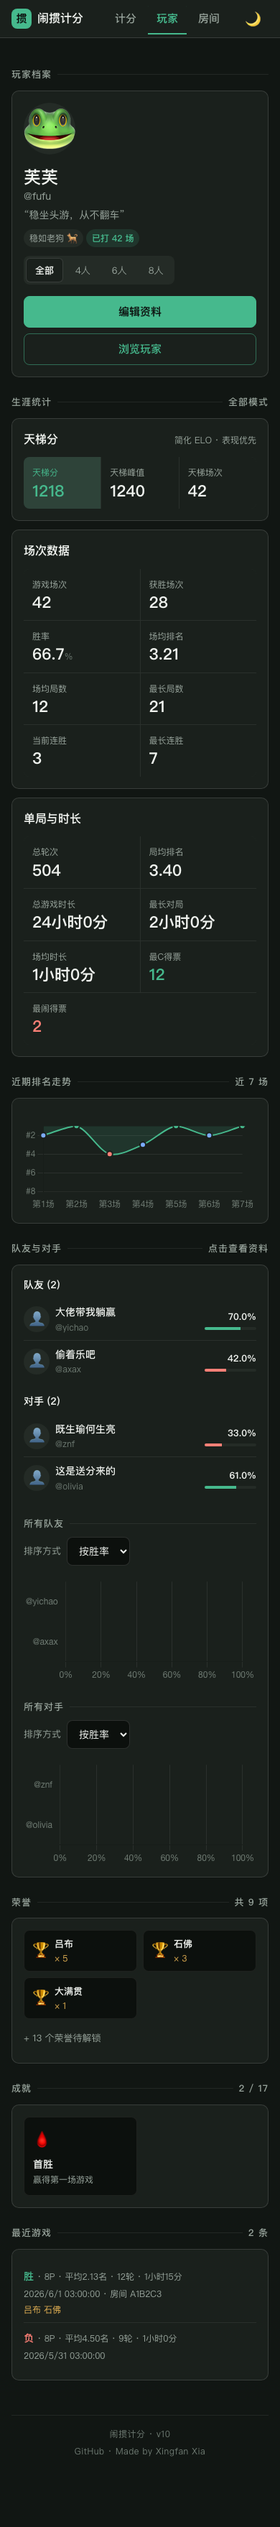
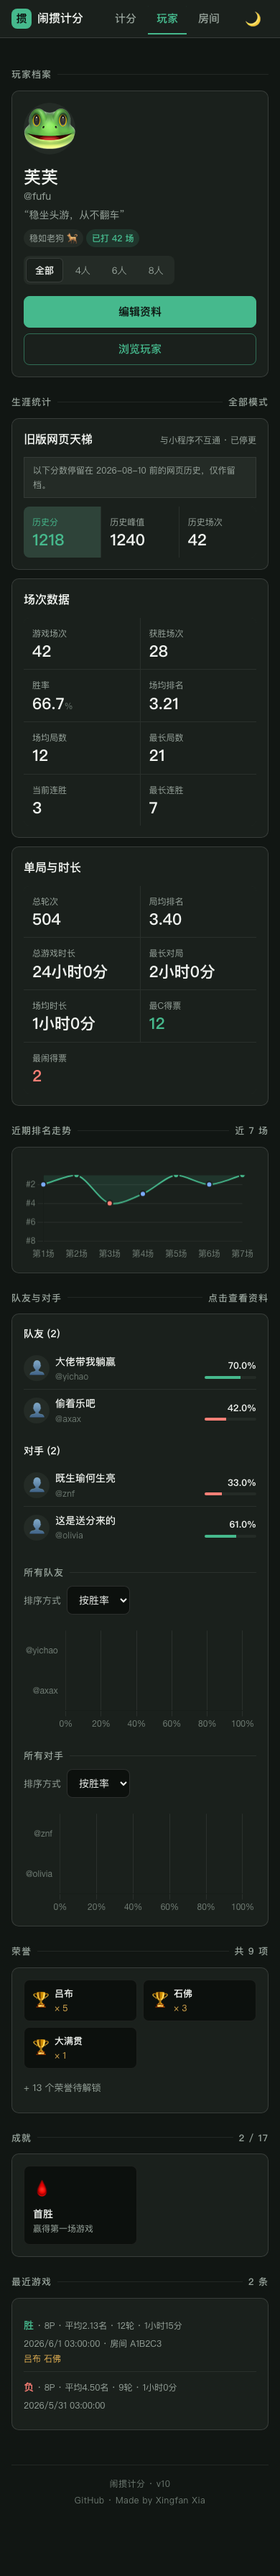
feat: freeze legacy web ladder

diff --git a/api/players/[handle].js b/api/players/[handle].js
@@ -16,10 +16,7 @@ import {
 } from '../../shared/voteSessionKey.js';
 import { getHistoryEntries, resolveGameStatus } from '../../shared/gameStatus.js';
 import {
-  LADDER_BASE,
-  computeLadderDeltas,
-  seedLadderRating,
-  applyLadderDelta
+  LADDER_BASE
 } from '../../shared/ladderLogic.js';
 import { publicVoteStoreForRoom } from '../rooms/_votes.js';
 import {
@@ -522,116 +519,6 @@ function normalizeLadderShape(ladder) {
     sessions: normalizeNonNegativeInteger(cur.sessions, 0),
     peak: Math.max(rating, normalizeNonNegativeNumber(cur.peak, rating))
   };
-}
-
-function roomLadderHandle(roomPlayer) {
-  const raw = roomPlayer?.handle ?? roomPlayer?.profileHandle;
-  if (typeof raw !== 'string') return null;
-  // Validate before it reaches a `player:${h}` KV key — the room snapshot only
-  // type-checks handles, so a host could otherwise smuggle junk into the lookup.
-  // Trimming + validating also matches the PUT target handle (already lowercased).
-  const handle = raw.trim().toLowerCase();
-  return validateHandle(handle) ? handle : null;
-}
-
-/**
- * The frozen pre-session ladder a profile brings into a match: its accumulated
- * rating once it has played a ladder session, otherwise a one-time seed derived
- * from web history (sessions===0 → never ranked). Defensive against raw/legacy
- * stats shapes (other participants are read straight from KV, unnormalized).
- */
-function frozenLadderState(stats) {
-  const l = stats && isPlainRecord(stats.ladder) ? stats.ladder : {};
-  const sessions = Number(l.sessions) || 0;
-  const rating = Number(l.rating);
-  if (sessions > 0 && Number.isFinite(rating)) {
-    const peak = Number(l.peak);
-    return { rating, sessions, peak: Number.isFinite(peak) ? peak : rating };
-  }
-  const seed = seedLadderRating(stats);
-  return { rating: seed, sessions: 0, peak: seed };
-}
-
-/**
- * Compute THIS session's ladder delta for the PUT target from the LIVE room
- * snapshot — winner + every participant's frozen rating (read-only) + roster
- * avgRankings. Returns the delta number, or null when the room has no
- * authoritative winner (宁可不动不可错判方向). Pure read; mutates nothing.
- *
- * Captured at enqueue time for the review queue (api/players/_pending.js) so the
- * delta survives the room's 24h TTL: an admin approving a queued session after
- * the room has expired still applies the correct rating change via the stored
- * snapshot (see applyLadderForSession's fallback).
- */
-async function computeSessionLadderDelta(player, handle, room, targetRoomPlayer) {
-  if (!room || !targetRoomPlayer) return null;
-
-  const history = getHistoryEntries(room?.state);
-  const status = resolveGameStatus(room?.state?.gameStatus, history);
-  if (!status.ended || !status.winnerKey) return null;
-  const winnerTeam = status.winnerKey === 't1' ? 1 : status.winnerKey === 't2' ? 2 : 0;
-  if (winnerTeam !== 1 && winnerTeam !== 2) return null;
-
-  const roomPlayers = Array.isArray(room.players) ? room.players : [];
-  const roomStats = isPlainRecord(room.playerStats) ? room.playerStats : {};
-  const avgRankingOf = (id) => {
-    const st = roomStats[String(id)] ?? roomStats[id];
-    const games = Number(st?.games);
-    return st && games > 0 ? Number(st.totalRank) / games : null;
-  };
-
-  // Frozen ratings, keyed by handle. The target uses its already-loaded profile;
-  // other handle-bound players are fetched read-only. No-handle guests fall
-  // through to computeLadderDeltas' LADDER_BASE default in the team average.
-  const ratingByHandle = new Map([[handle, frozenLadderState(player.stats).rating]]);
-  const otherHandles = [...new Set(
-    roomPlayers.map(roomLadderHandle).filter(h => h && h !== handle)
-  )];
-  await Promise.all(otherHandles.map(async (h) => {
-    const profile = parsePlayerRecord(await kv.get(`player:${h}`));
-    ratingByHandle.set(h, profile ? frozenLadderState(profile.stats || {}).rating : LADDER_BASE);
-  }));
-
-  const rosterInput = roomPlayers.map((p) => {
-    const h = roomLadderHandle(p);
-    return {
-      id: String(p.id),
-      team: Number(p.team),
-      avgRanking: avgRankingOf(p.id),
-      rating: h ? ratingByHandle.get(h) : undefined
-    };
-  });
-
-  const deltas = computeLadderDeltas({ mode: roomPlayers.length, winnerTeam, players: rosterInput });
-  return deltas.get(String(targetRoomPlayer.id)) || 0;
-}
-
-/**
- * Apply this session's ladder delta to ONE profile (the PUT target), writing
- * only `player` so concurrent per-player PUTs never clobber each other.
- * Idempotent per sessionKey (the same gate as sessionHistory). Live-room writes
- * compute the delta from the room; a queued session approved AFTER the room's
- * 24h TTL has no live room, so it falls back to `fallbackDelta` — the delta
- * snapshotted into the pending record at enqueue time. Mutates
- * player.stats.ladder + player.stats.ladderHistory in place.
- */
-async function applyLadderForSession(player, handle, room, targetRoomPlayer, sessionKey, fallbackDelta) {
-  if (!sessionKey) return;
-
-  player.stats.ladderHistory = normalizeRecordMap(player.stats.ladderHistory);
-  if (Object.prototype.hasOwnProperty.call(player.stats.ladderHistory, sessionKey)) return;
-
-  let delta = null;
-  if (room && targetRoomPlayer) {
-    delta = await computeSessionLadderDelta(player, handle, room, targetRoomPlayer);
-  } else if (Number.isFinite(fallbackDelta)) {
-    // Room gone (TTL) — apply the delta captured when the session was queued.
-    delta = fallbackDelta;
-  }
-  if (!Number.isFinite(delta)) return;
-
-  player.stats.ladder = applyLadderDelta(frozenLadderState(player.stats), delta);
-  player.stats.ladderHistory[sessionKey] = delta;
 }
 
 // Migrate historical games to mode-specific stats (runs once per player)
@@ -1171,15 +1058,10 @@ export default async function handler(request) {
         // approval (api/players/pending.js) — the sessionHistory gameKey gate
         // keeps that idempotent.
         if (isRealRoomCode && !_adminOk) {
-          // Snapshot the ladder delta from the still-live room so an admin can
-          // approve later (even after the room's 24h TTL) without losing the
-          // rating change — see applyLadderForSession's fallbackDelta path.
-          const ladderDelta = await computeSessionLadderDelta(player, handle, _room, _targetRoomPlayer);
           const queued = await enqueuePendingSession({
             handle,
             gameResult,
-            sessionKey: gameSessionHistoryKey,
-            ladderDelta
+            sessionKey: gameSessionHistoryKey
           });
           return jsonResponse({
             success: true,
@@ -1189,14 +1071,10 @@ export default async function handler(request) {
           }, RESPONSE_OPTIONS);
         }
 
-        // Ladder rating (simplified Elo, see shared/ladderLogic.js). Run BEFORE
-        // the session-stat increments so the first-session seed reads PRE-session
-        // web history (sessionsPlayed/avgRanking), not this session. Live-room
-        // writes derive the winner + roster from the room snapshot; an approved
-        // queued session whose room has expired falls back to the delta snapshotted
-        // at enqueue time (gameResult._pendingLadderDelta, injected by
-        // api/players/pending.js). Same session key → never double-applies.
-        await applyLadderForSession(player, handle, _room, _targetRoomPlayer, gameSessionHistoryKey, gameResult._pendingLadderDelta);
+        // WEB LADDER FREEZE · 2026-08-10 (D5)
+        // Web 与小程序的评分人口/数据源不互通。旧版 web rating/peak/sessions/
+        // ladderHistory 从此只作历史留档；正常战绩继续入库，但任何路径都不得再写天梯。
+        // wxapp 的两级 PL 是唯一后续权威，且不会从这里的旧分继续累加。
 
         // ===== UPDATE OVERALL STATS =====
         // Snapshot the OLD count BEFORE incrementing — running averages must use N_old.

diff --git a/api/players/_pending.js b/api/players/_pending.js
@@ -66,16 +66,15 @@ function buildSummary(handle, gameResult) {
 /**
  * Persist a pending submission. Stores an allowlisted projection of the
  * server-authoritative gameResult (teamWon + vote counts already overridden by
- * the handler) — never the raw client object, never an admin token. The ladder
- * delta is snapshotted from the still-live room here so replay-on-approval stays
- * correct (stats AND ladder) even after the room's 24h TTL expires.
+ * the handler) — never the raw client object, never an admin token. Web 天梯已于
+ * 2026-08-10 冻结；pending 只保存 stats 审核所需字段，不再保存评分增量。
  *
  * `sessionKey` (the derived gameSessionHistoryKey) is REQUIRED — it salts the
  * deterministic id so a host's auto-sync retry overwrites the same entry. A
  * falsy key would collapse every session to one id and silently evict unreviewed
  * submissions, so we reject it loudly rather than swallow it.
  */
-export async function enqueuePendingSession({ handle, gameResult, sessionKey, ladderDelta }) {
+export async function enqueuePendingSession({ handle, gameResult, sessionKey }) {
   if (!sessionKey) {
     throw new Error('enqueuePendingSession requires a non-empty sessionKey');
   }
@@ -89,8 +88,6 @@ export async function enqueuePendingSession({ handle, gameResult, sessionKey, la
     summary: buildSummary(handle, gameResult || {}),
     submittedAt: new Date().toISOString()
   };
-  // Captured while the room is live; applied on approval if the room has expired.
-  if (Number.isFinite(ladderDelta)) record.ladderDelta = ladderDelta;
   await kv.set(`${PENDING_PREFIX}${id}`, JSON.stringify(record));
   return record;
 }

diff --git a/players.html b/players.html
@@ -82,9 +82,10 @@
       <button id="adminModeButton" class="btn-danger">🔒 管理模式</button>
     </div>
     <div class="sort-toggle" role="group" aria-label="排序方式">
-      <button id="sortLadder" type="button" class="sort-toggle__btn sort-toggle__btn--active" aria-pressed="true">🏆 天梯榜</button>
+      <button id="sortLadder" type="button" class="sort-toggle__btn sort-toggle__btn--active" aria-pressed="true">🏆 旧版天梯</button>
       <button id="sortRecent" type="button" class="sort-toggle__btn" aria-pressed="false">🕐 最近活跃</button>
     </div>
+    <p class="ladder-freeze-note" role="note"><strong>旧版网页天梯已停更</strong> · 与小程序天梯不互通 · 分数仅作历史留档（2026-08-10 起）</p>
   </div>
 
   <!-- Admin token panel (JS shows/hides) -->
@@ -299,7 +300,7 @@ function renderPlayers() {
         ${player.tagline ? `<p class="player-card__tagline">${escapeHtml(player.tagline)}</p>` : ''}
 
         <div class="player-card__stats">
-          <span class="stat-badge stat-badge--ladder">🪜 天梯 ${ladderRanked ? formatInteger(ladder.rating) : '未上榜'}</span>
+          <span class="stat-badge stat-badge--ladder">🪜 旧分 ${ladderRanked ? formatInteger(ladder.rating) : '未记录'}</span>
           <span class="stat-badge">🎮 ${formatInteger(playerStats.sessionsPlayed || playerStats.gamesPlayed, 0)} 场</span>
           <span class="stat-badge">🏆 ${formatInteger(playerStats.sessionsWon || playerStats.wins, 0)} 胜</span>
           <span class="stat-badge">胜率 ${formatPercent(playerStats.sessionWinRate || playerStats.winRate)}%</span>

diff --git a/player-profile.html b/player-profile.html
@@ -739,20 +739,21 @@ async function loadProfile(handle) {
 
       <div class="career-stats-section">
         <div class="stats-header">
-          <span class="stats-header-title">天梯分</span>
-          <span class="stats-header-meta">简化 ELO · 表现优先</span>
+          <span class="stats-header-title">旧版网页天梯</span>
+          <span class="stats-header-meta">与小程序不互通 · 已停更</span>
         </div>
+        <p class="ladder-freeze-note ladder-freeze-note--profile" role="note">以下分数停留在 2026-08-10 前的网页历史，仅作留档。</p>
         <div class="career-stats-grid career-stats-grid--ladder">
           <div class="career-stat-tile career-stat-tile--ladder">
-            <div class="tile-label">天梯分</div>
+            <div class="tile-label">历史分</div>
             <div class="tile-val">${formatInteger(player.stats.ladder?.rating, 1000)}</div>
           </div>
           <div class="career-stat-tile">
-            <div class="tile-label">天梯峰值</div>
+            <div class="tile-label">历史峰值</div>
             <div class="tile-val">${formatInteger(player.stats.ladder?.peak, 1000)}</div>
           </div>
           <div class="career-stat-tile">
-            <div class="tile-label">天梯场次</div>
+            <div class="tile-label">历史场次</div>
             <div class="tile-val">${formatInteger(player.stats.ladder?.sessions, 0)}</div>
           </div>
         </div>

diff --git a/api/players/pending.js b/api/players/pending.js
@@ -22,10 +22,8 @@ const RESPONSE_OPTIONS = { methods: 'POST, OPTIONS' };
 // so it applies through exactly the same validated path the live PUT uses.
 async function replayApprovedSession(record, adminToken) {
   const replayBody = { ...record.gameResult, adminToken };
-  // If the room has expired since the session was queued, the handler can't
-  // recompute the ladder from a live snapshot — feed it the delta captured at
-  // enqueue time so the rating change still applies (api/players/[handle].js).
-  if (Number.isFinite(record.ladderDelta)) replayBody._pendingLadderDelta = record.ladderDelta;
+  // Legacy pending records may still contain ladderDelta, but web 天梯已冻结；
+  // replay 只入 stats，绝不把旧评分增量重新注入 handler。
   const replayRequest = new Request(
     `https://internal/api/players/${encodeURIComponent(record.handle)}`,
     {

diff --git a/src/style.css b/src/style.css
@@ -2011,6 +2011,19 @@ body.app-gated .ticker { display: none; }
   color: var(--on-accent);
 }
 
+.ladder-freeze-note {
+  margin: var(--s2) 0 0;
+  padding: var(--s2) var(--s3);
+  border: 1px solid var(--rule-soft);
+  border-radius: var(--radius-control);
+  background: var(--surface-2);
+  color: var(--ink-dim);
+  font-size: 12px;
+  line-height: 1.6;
+}
+.ladder-freeze-note strong { color: var(--ink); }
+.ladder-freeze-note--profile { margin-bottom: var(--s3); }
+
 .player-card__admin {
   display: flex;
   gap: var(--s2);

diff --git a/docs/ops/2026-08-10-web-ladder-freeze.md b/docs/ops/2026-08-10-web-ladder-freeze.md
@@ -1,0 +1,34 @@
+# Web 旧天梯冻结记录（2026-08-10）
+
+## 结论
+
+按 D5 决策，网页端旧天梯自 2026-08-10 起冻结。网页战绩继续累计，
+但 `stats.ladder.rating/peak/sessions` 和 `stats.ladderHistory` 不再由任何
+直接写入或审核回放路径修改。小程序两级 PL 天梯是后续唯一权威评分，
+不会继承或继续累加网页旧分。
+
+## 边界
+
+- 玩家列表与档案页明确展示“旧版网页天梯已停更、与小程序不互通”。
+- 新 pending 记录不再保存 `ladderDelta`。
+- 历史 pending 即使仍含 `ladderDelta`，审核回放也会忽略它。
+- 房间仍存活、房间已过期、重复提交三条路径都只更新普通战绩。
+- 旧天梯纯函数保留，供历史数据解释和回归使用；没有线上结算调用点。
+
+## 验证
+
+- `node scripts/ops/verify-ladder-sync.mjs`
+- `node scripts/ops/verify-pending-queue.mjs`
+- `node scripts/ops/verify-ladder-algorithms.mjs`
+- 全量 `scripts/ops/verify-*.mjs`
+- `npm run build`
+- `npm run test:visual`（21 个明暗/移动/桌面快照通过）
+
+更新后的视觉基线位于 `docs/reports/redesign/players-*.png` 和
+`docs/reports/redesign/profile-*.png`。
+
+## 回滚
+
+如需临时恢复旧网页结算，应通过单独变更恢复旧结算函数、pending delta
+快照与审核回放，并同步移除停更提示。不要直接修改生产玩家记录；冻结本身
+没有迁移或删除任何历史评分数据。
